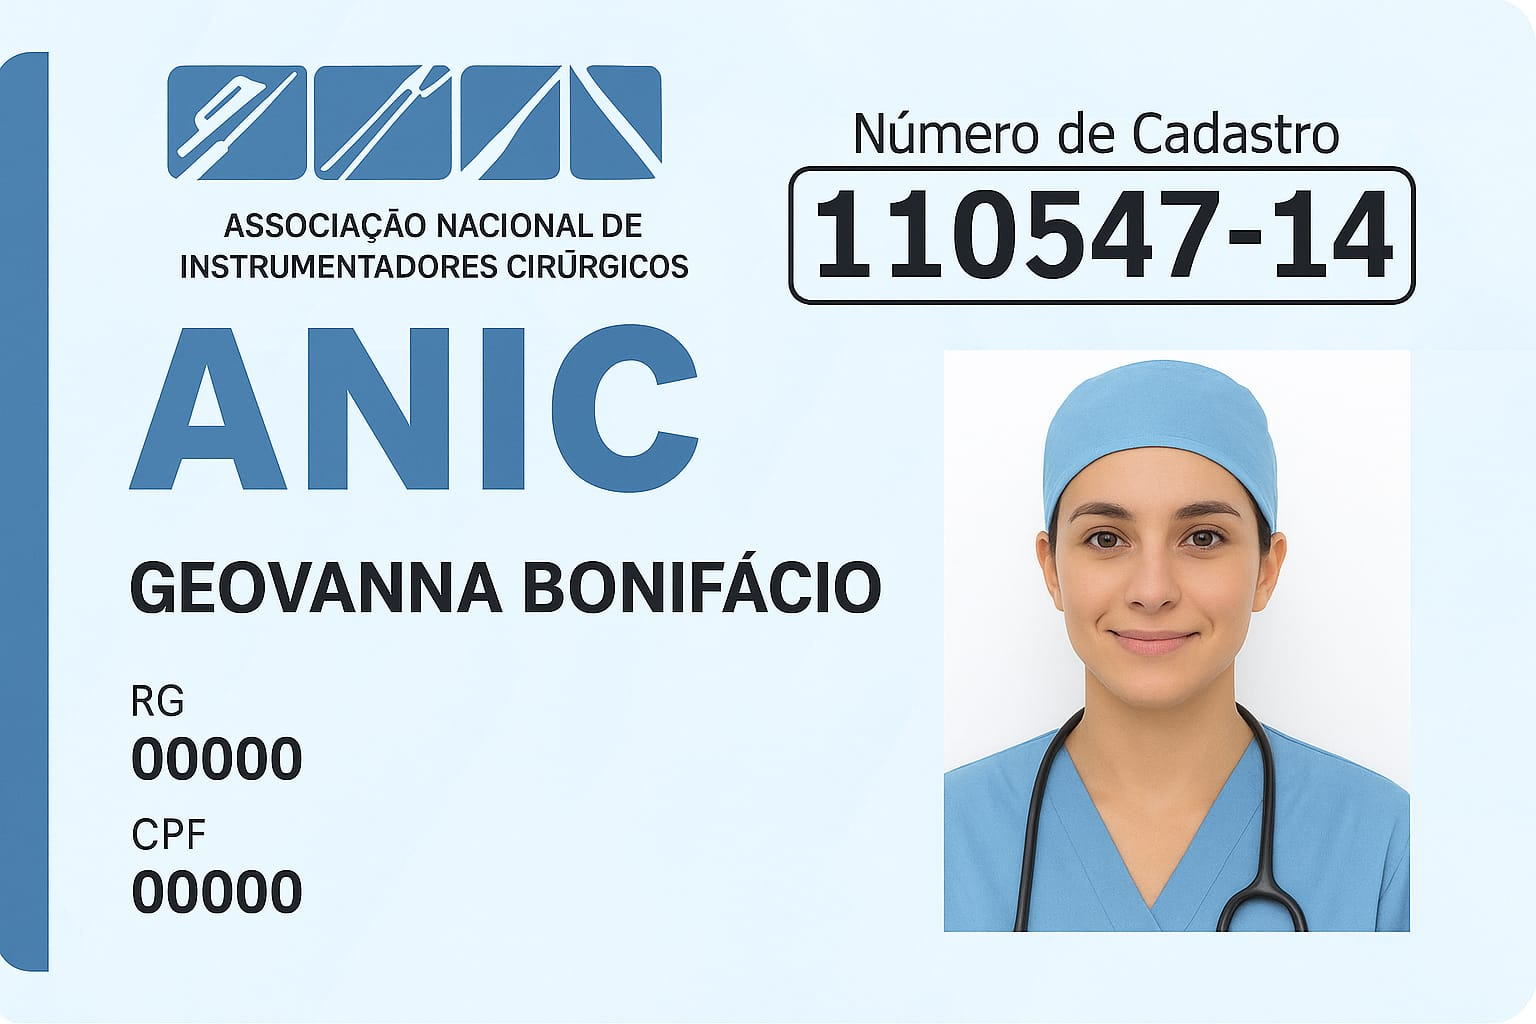
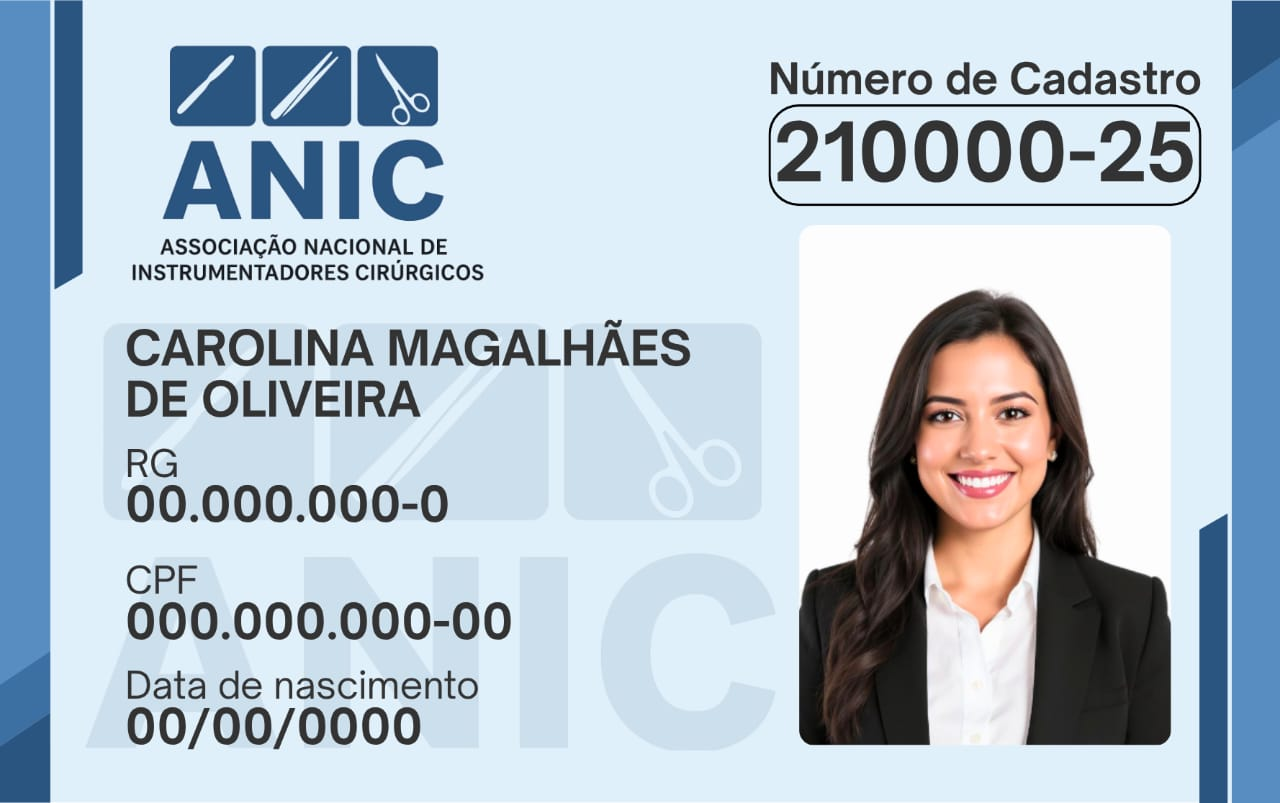
feat(home): substituir carteirinha local pela imagem do Google Drive (servida em public) e apontar src para /carteirinha-anic-nova.jpg

diff --git a/src/pages/home/page.tsx b/src/pages/home/page.tsx
@@ -339,7 +339,7 @@ export default function Home() {
                 <div className="flex justify-center">
                   <div className="bg-white p-4 rounded-xl shadow-lg max-w-md">
                     <img 
-                      src="https://drive.google.com/file/d/1PYRYbMgMVeKQip8EXudcUg3RdAvQdzQm/view?usp=sharing"
+                      src="/carteirinha-anic-nova.jpg"
                       alt="Carteirinha profissional oficial ANIC para instrumentadores cirúrgicos - modelo com foto, dados pessoais e numeração única nacional"
                       className="w-full h-auto rounded-lg shadow-md"
                       loading="lazy"
